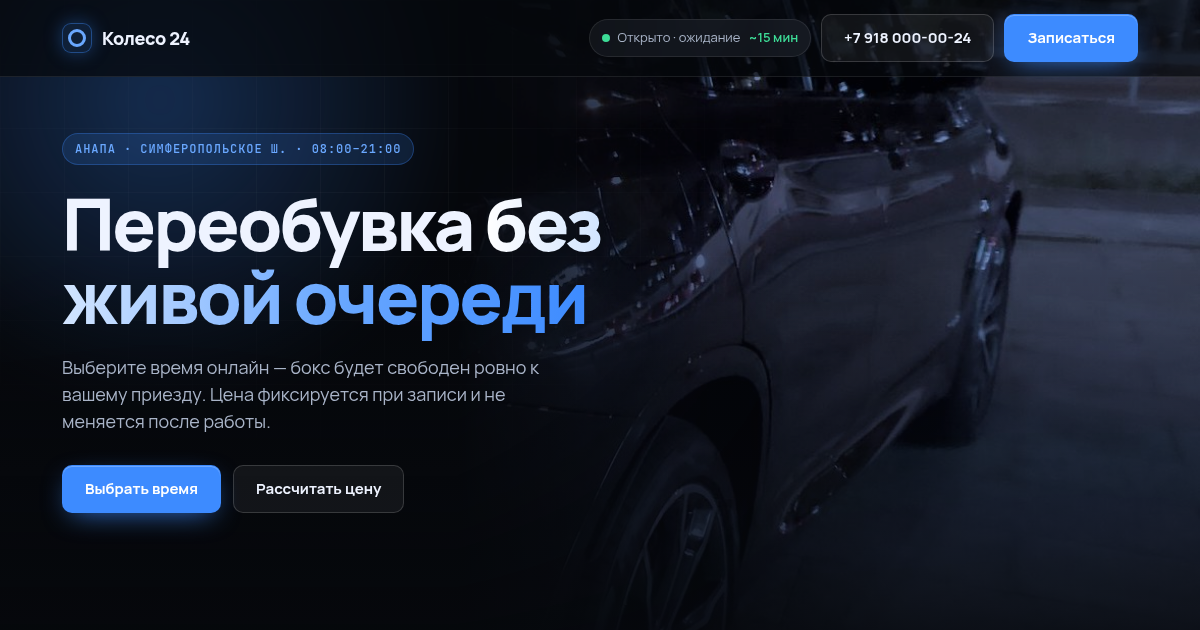
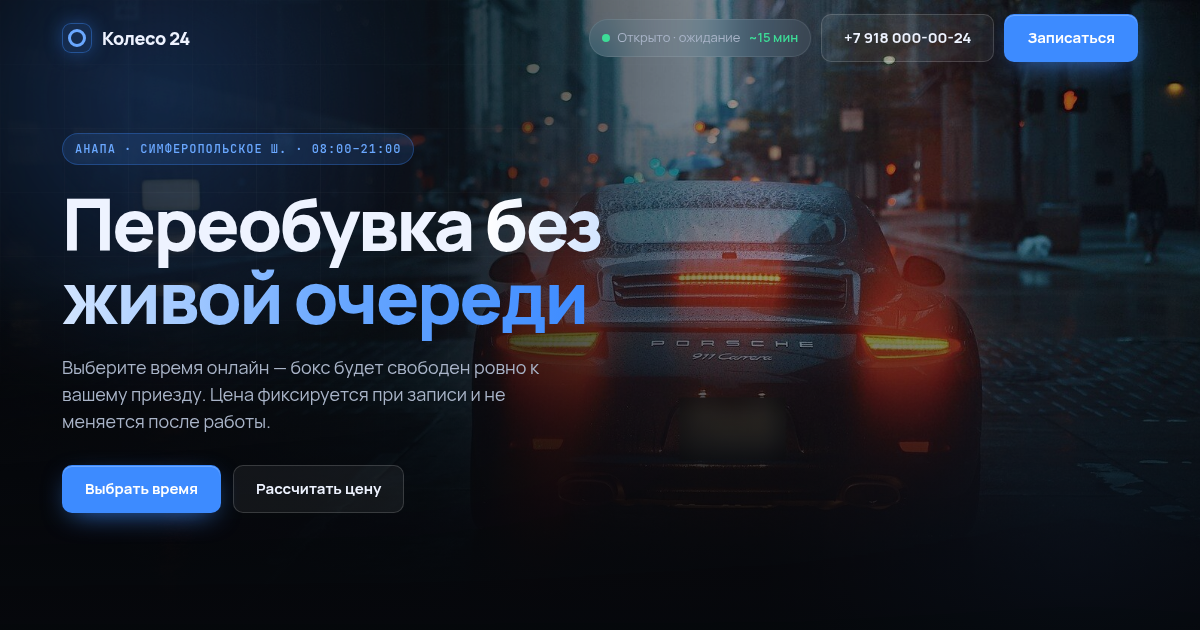
shina: новое фото фона

diff --git a/shina/index.html b/shina/index.html
@@ -44,8 +44,9 @@ a{color:inherit;text-decoration:none}
 header,main,footer,.mbar{position:relative;z-index:1}
 header{position:sticky}
 .mbar{position:fixed}
-.bg .photo{position:absolute;right:0;top:0;height:100%;width:min(62vw,820px);background:url(img/hero.jpg) center/cover no-repeat;opacity:.7;
-  -webkit-mask-image:linear-gradient(90deg,transparent 0%,#000 45%);mask-image:linear-gradient(90deg,transparent 0%,#000 45%)}
+.bg .photo{position:absolute;inset:0 0 auto 0;height:100vh;background:url(img/hero.jpg) 0% center/cover no-repeat;opacity:.66;
+  -webkit-mask-image:linear-gradient(90deg,rgba(0,0,0,.12) 0%,rgba(0,0,0,.35) 35%,#000 62%),linear-gradient(180deg,#000 60%,transparent 100%);-webkit-mask-composite:source-in;
+  mask-image:linear-gradient(90deg,rgba(0,0,0,.12) 0%,rgba(0,0,0,.35) 35%,#000 62%),linear-gradient(180deg,#000 60%,transparent 100%);mask-composite:intersect}
 .bg .grid{position:absolute;inset:0;background-image:linear-gradient(var(--line) 1px,transparent 1px),linear-gradient(90deg,var(--line) 1px,transparent 1px);background-size:64px 64px;opacity:.35;
   -webkit-mask-image:radial-gradient(ellipse 70% 60% at 30% 30%,#000,transparent 75%);mask-image:radial-gradient(ellipse 70% 60% at 30% 30%,#000,transparent 75%)}
 .bg .glow{position:absolute;width:720px;height:720px;left:-200px;top:-260px;background:radial-gradient(circle,rgba(61,139,255,.28),transparent 60%);filter:blur(20px)}
@@ -213,7 +214,7 @@ footer{padding:40px 0 110px;color:var(--muted);font-size:13px}
 @media (max-width:900px){
   .calc{grid-template-columns:1fr}.calc-r{position:static}
   .why{grid-template-columns:1fr 1fr}
-  .bg .photo{width:100vw;opacity:.55;background-position:30% center;-webkit-mask-image:linear-gradient(180deg,rgba(0,0,0,.9) 0%,#000 40%,transparent 95%);mask-image:linear-gradient(180deg,rgba(0,0,0,.9) 0%,#000 40%,transparent 95%)}
+  .bg .photo{height:60vh;opacity:.4;background-position:50% 30%;-webkit-mask-image:linear-gradient(180deg,#000 0%,#000 45%,transparent 100%);mask-image:linear-gradient(180deg,#000 0%,#000 45%,transparent 100%)}
   .hero h1,.hero .lead{text-shadow:0 2px 24px rgba(6,8,12,.9)}
 }
 @media (max-width:600px){
@@ -323,7 +324,7 @@ footer{padding:40px 0 110px;color:var(--muted);font-size:13px}
 <footer>
   <div class="wrap foot">
     <span>© Шиномонтаж «Колесо 24», Анапа · демо-концепт · сделано <a href="https://t.me/landrix_dev">Landrix</a></span>
-    <span>Фото: <a href="https://commons.wikimedia.org/wiki/File:BMW_X3_xDrive20d_(G01)_at_night_rear.jpg" rel="noopener">Wikimedia Commons</a>, CC BY-SA 4.0</span>
+    <span>Фото: <a href="https://commons.wikimedia.org/wiki/File:Porsche_911_on_a_rainy_evening_(Unsplash).jpg" rel="noopener">Unsplash / Wikimedia Commons</a>, CC0</span>
   </div>
 </footer>
 
